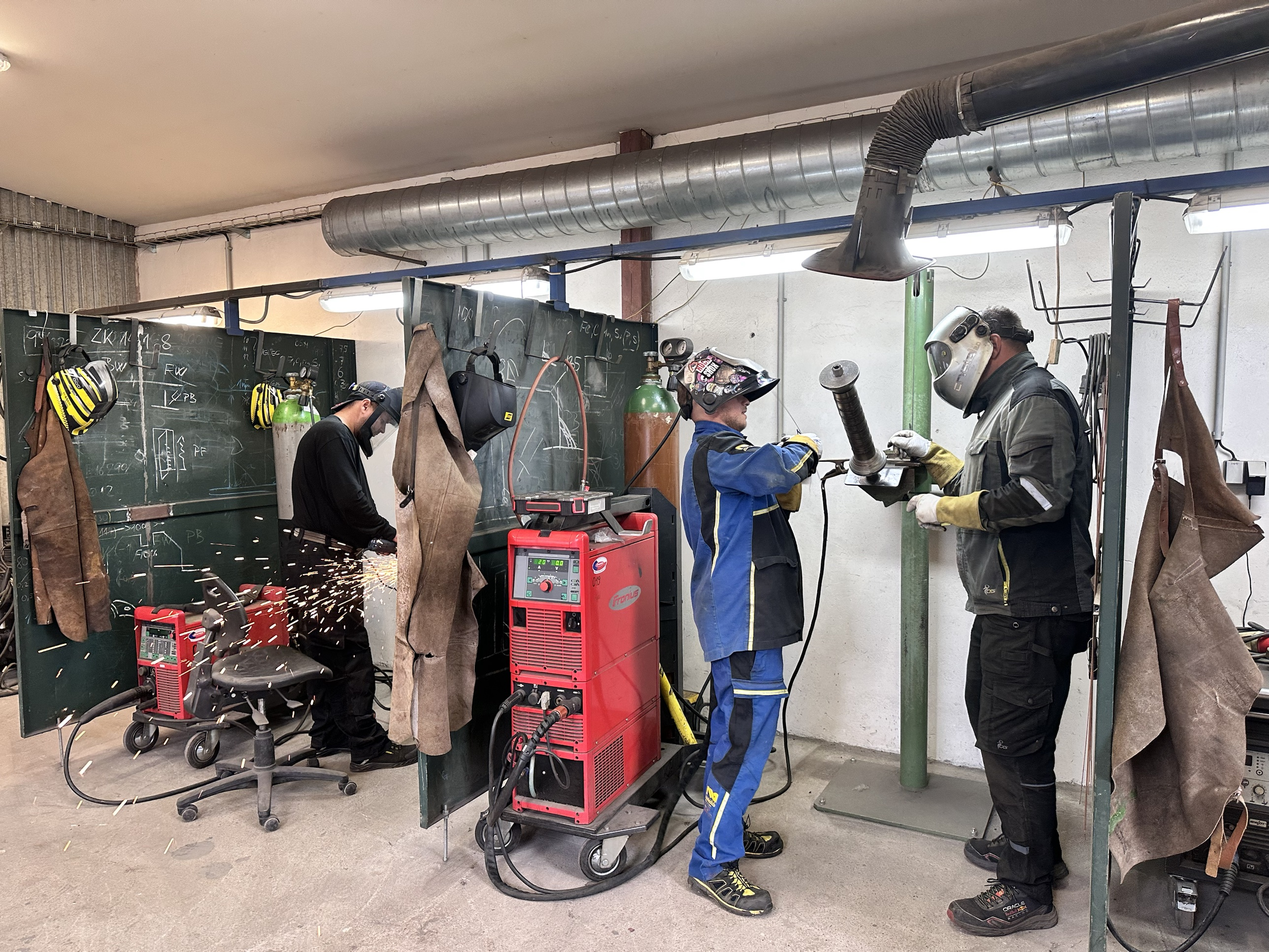
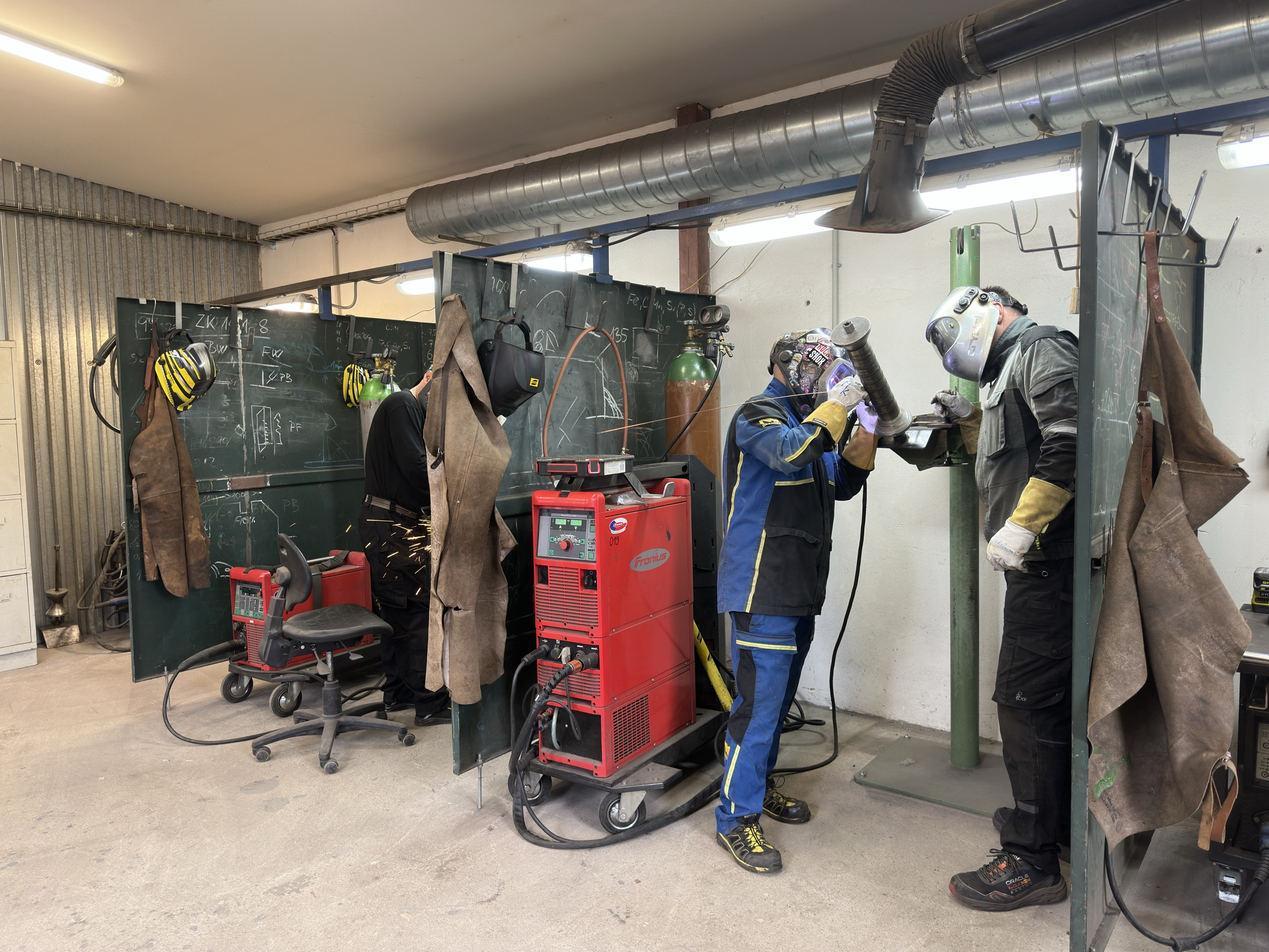
opravy

diff --git a/svarecska-skola.html b/svarecska-skola.html
@@ -115,15 +115,6 @@
     </div>
   </section>
 
-  <!-- ===================== FOTO DÍLNY ===================== -->
-  <section class="section">
-    <div class="wrap">
-      <div class="work-shot">
-        <img src="img/skola-vyuka.jpg" alt="Praktická výuka svářečské školy přímo v provozu dílny">
-      </div>
-    </div>
-  </section>
-
   <!-- ===================== FILTR KURZŮ ===================== -->
   <section class="section finder" id="kurzy">
     <div class="wrap">
